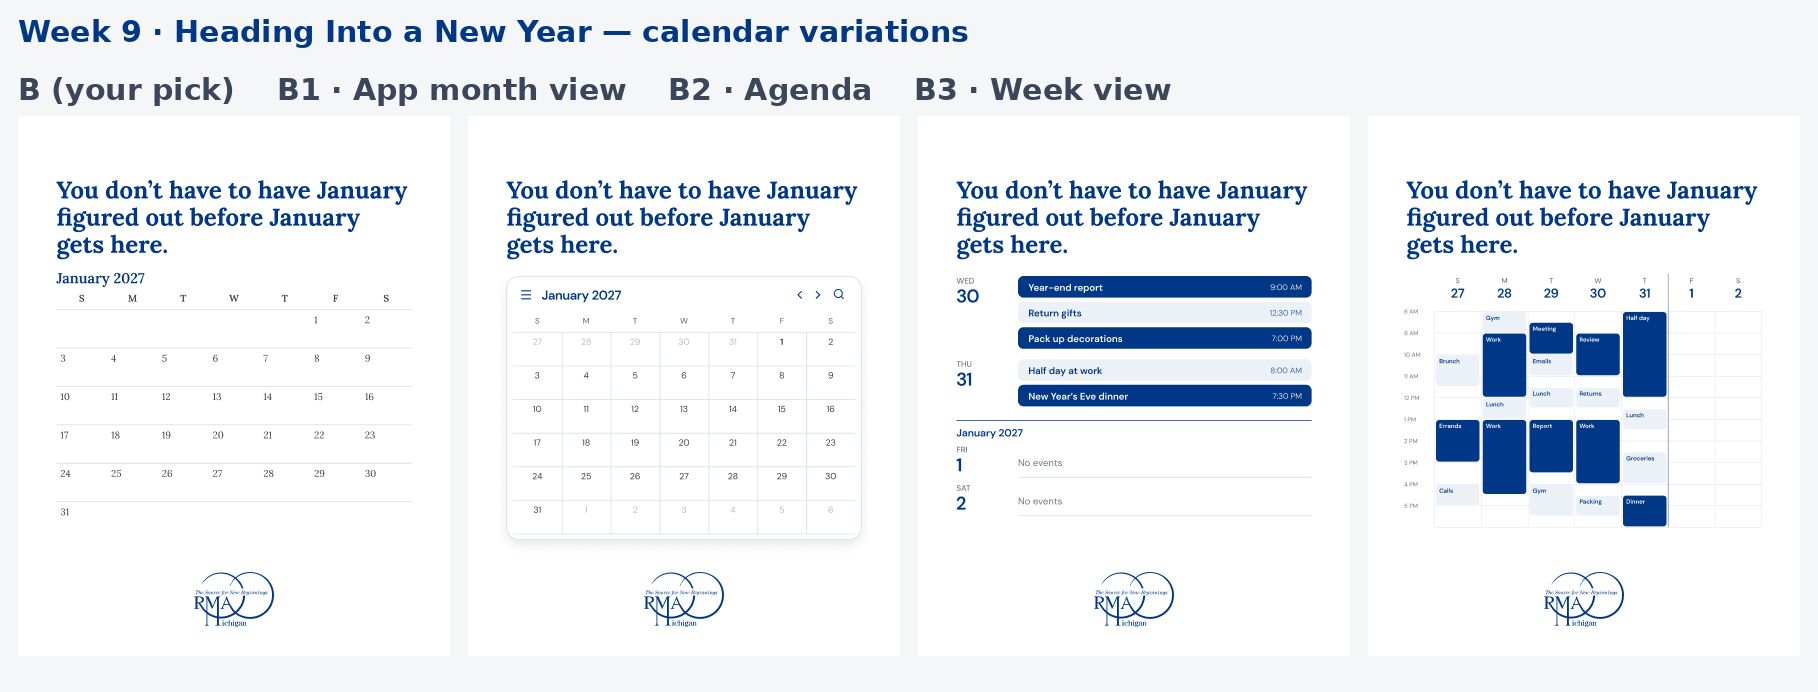
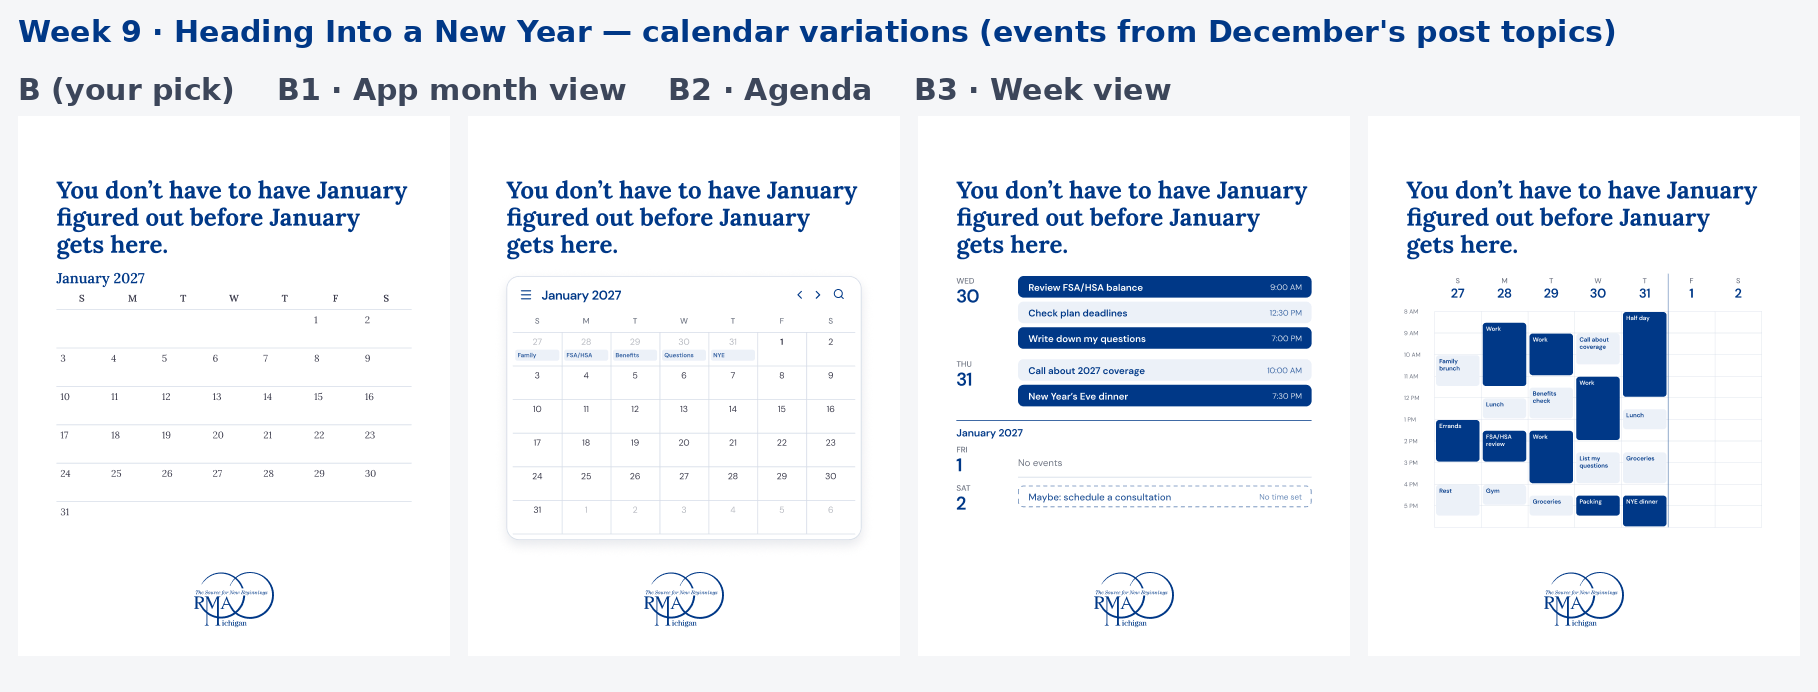
New Year calendars: events drawn from December's post topics
Claude-Session: https://claude.ai/code/session_016yKrfT8RQFRJPW8Btr4Q9U

diff --git a/rma-michigan-social/handoff-dec-batch.md b/rma-michigan-social/handoff-dec-batch.md
@@ -102,7 +102,7 @@ Each version was checked separately on its render:
 | New Year · A | Layout. | Holds. A snowy path bending out of view (AI, no people) carries "not figured out yet". | Built as is. |
 | New Year · B | Newsletter dimension: position as the design tool. | Holds. January 2027 is shown as an empty month: correct day numbers (Jan 1 is a Friday) and nothing filled in. | Built as is. |
 | New Year · B1 (added Nov 16, your request: more calendar variations) | Side-tab accent: event chips must not use a coloured edge. | App month view: a calendar-app screen in RMA navy and DM Sans, with no Google logo, colours or type. The leading and trailing days are greyed, and January has nothing booked. The last grid row first ran past the card. | Rows tightened so the grid sits inside the card. |
-| New Year · B2 (added) | Section layouts: the structure has to come from the idea. | The idea is the contrast: Dec 30–31 is packed, then a "January 2027" divider and "No events". It first overflowed into the logo. | Compacted, keeping two January days. Event names are generic, invented and non-medical. |
+| New Year · B2 (added) | Section layouts: the structure has to come from the idea. | The idea is the contrast: Dec 30–31 is packed, then a "January 2027" divider and "No events". It first overflowed into the logo. | Compacted, keeping two January days. Events revised to the posts' topics: benefits, FSA/HSA, coverage and questions. Jan 2 shows a dashed, unbooked "Maybe: schedule a consultation" from the caption. |
 | New Year · B3 (added) | Grid: different-sized elements share one left track. | Holds. The week view runs Sun Dec 27 – Sat Jan 2: the December columns are full, a line marks the new year, and Jan 1–2 are open. | Built as is. The hour labels and grid align with the headline's left edge. |
 | New Year · C | Typographic play: two dimensions across several words. | Both "January"s use weight + scale. The first render left "here." alone on its last line. | Set in four deliberate lines. |
 | Consultation · A | Layout. | Holds. Two cups at a window imply a conversation without inventing people. | Built as is. |
@@ -203,7 +203,7 @@ read.
 11. **Holiday office hours** carry bracketed placeholder rows. Replace them with RMA's confirmed hours before publishing. Per the brief, the graphic does not point patients to the portal for urgent issues.
 12. **Holiday Cheer B** has a dashed slot for a real team or office photo. If RMA can't send one, A or C is the brief's branded fallback.
 13. **Copy that isn't the brief's graphic text** (remove any of these if only graphic text should appear):
-    - New Year B1–B3: invented agenda items ("Year-end report", "Return gifts", "Half day at work" and so on), plus "No events" and the month and day labels. They are generic and non-medical, there to show a busy December.
+    - New Year B1–B3 (revised Nov 16 to match the posts' topics): December events echo this month's posts. They are "Review FSA/HSA balance" and "FSA/HSA review" (Week 5 blog), "Check plan deadlines" and "Benefits check" (Week 7 questions), "Call about 2027 coverage", and "Write down my questions" / "List my questions", alongside everyday items (work, lunch, groceries, New Year's Eve dinner). January stays open. B2 adds one dashed, unbooked item, "Maybe: schedule a consultation", taken from the caption ("Maybe your next step is scheduling a consultation.").
     - New Year B: "January 2027", the weekday letters and the day numbers.
     - IVF Myth A: the option chips on slides 1–2 and the "Evaluation" label (the options are words from the copy).
     - Questions B: the cover's list of the three questions (repeated from slides 2–4).
